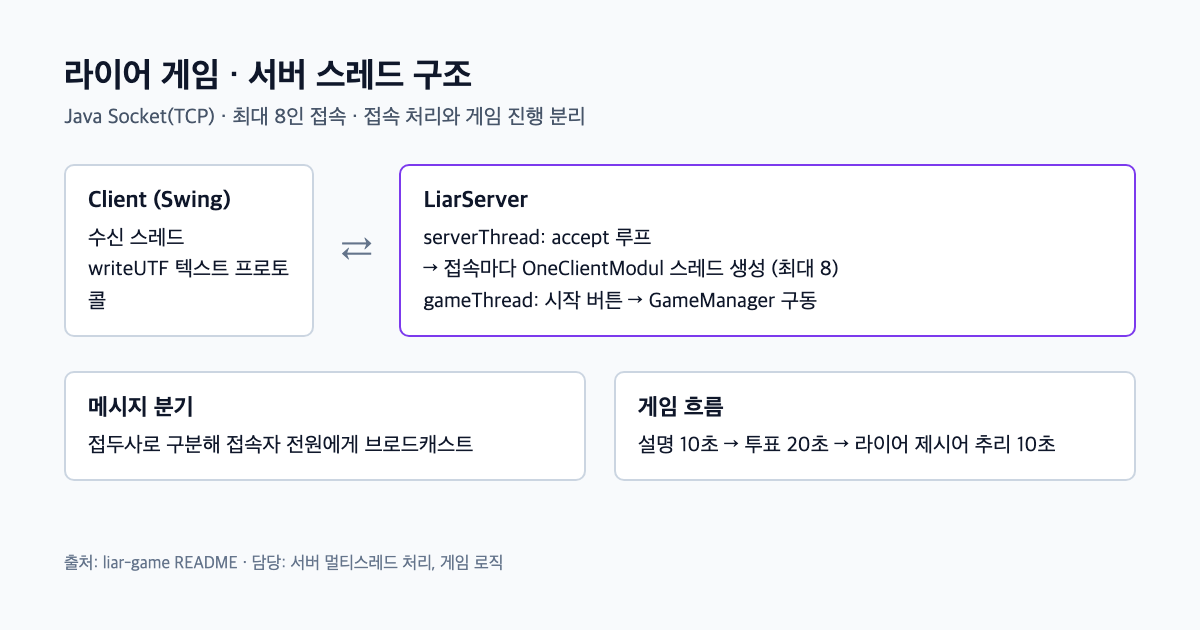
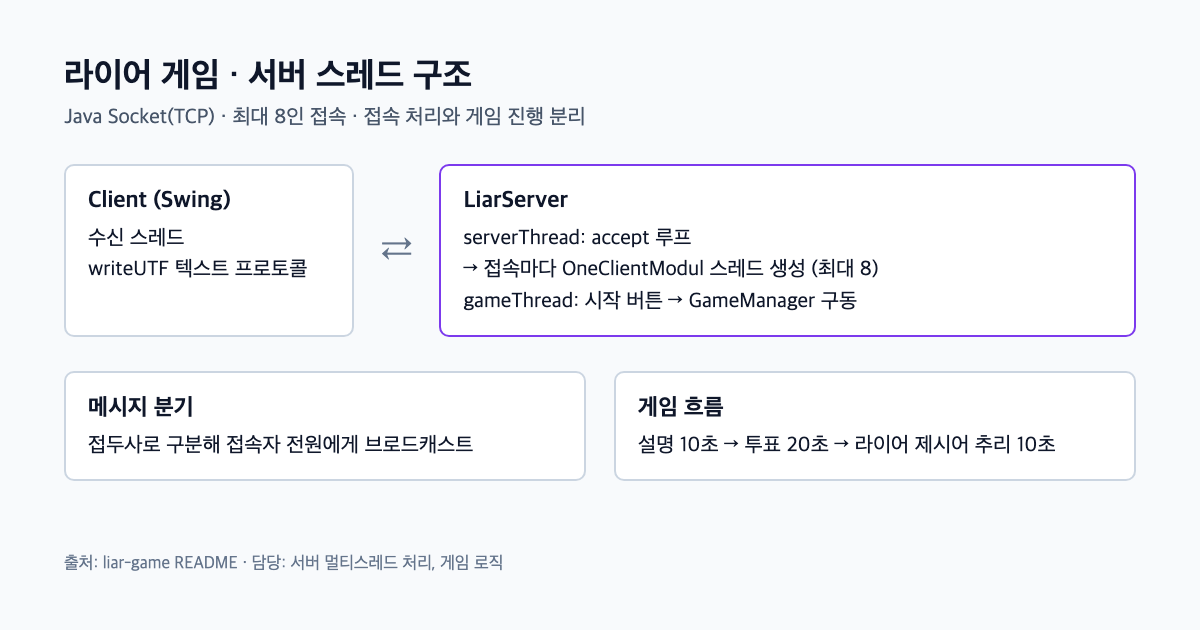
liar-game 카드 이미지 박스 폭 조정

diff --git a/assets/src/liar-game.html b/assets/src/liar-game.html
@@ -1,7 +1,7 @@
 <meta charset="utf-8"><style>*{box-sizing:border-box;margin:0}body{width:1200px;height:630px;background:#F8FAFC;font-family:"Apple SD Gothic Neo","Helvetica Neue",sans-serif;color:#0F172A;padding:56px 64px;display:flex;flex-direction:column}h1{font-size:34px;font-weight:700}p.sub{font-size:21px;color:#475569;margin-top:8px}.f{margin-top:auto;font-size:17px;color:#64748B}
 .row{display:flex;gap:28px;margin-top:34px;align-items:stretch}.bx{border:2px solid #CBD5E1;background:#fff;border-radius:10px;padding:18px 22px;font-size:21px;line-height:1.5}.bx b{display:block;font-size:23px;margin-bottom:4px}.a{align-self:center;font-size:34px;color:#64748B}.s{border-color:#7C3AED}
 </style><h1>라이어 게임 · 서버 스레드 구조</h1><p class="sub">Java Socket(TCP) · 최대 8인 접속 · 접속 처리와 게임 진행 분리</p>
-<div class="row"><div class="bx" style="width:250px"><b>Client (Swing)</b>수신 스레드<br>writeUTF 텍스트 프로토콜</div><div class="a">⇄</div>
+<div class="row"><div class="bx" style="width:290px"><b>Client (Swing)</b>수신 스레드<br>writeUTF 텍스트 프로토콜</div><div class="a">⇄</div>
 <div class="bx s" style="flex:1"><b>LiarServer</b>serverThread: accept 루프<br>→ 접속마다 OneClientModul 스레드 생성 (최대 8)<br>gameThread: 시작 버튼 → GameManager 구동</div></div>
 <div class="row"><div class="bx" style="flex:1"><b>메시지 분기</b>접두사로 구분해 접속자 전원에게 브로드캐스트</div><div class="bx" style="flex:1"><b>게임 흐름</b>설명 10초 → 투표 20초 → 라이어 제시어 추리 10초</div></div>
 <div class="f">출처: liar-game README · 담당: 서버 멀티스레드 처리, 게임 로직</div>
